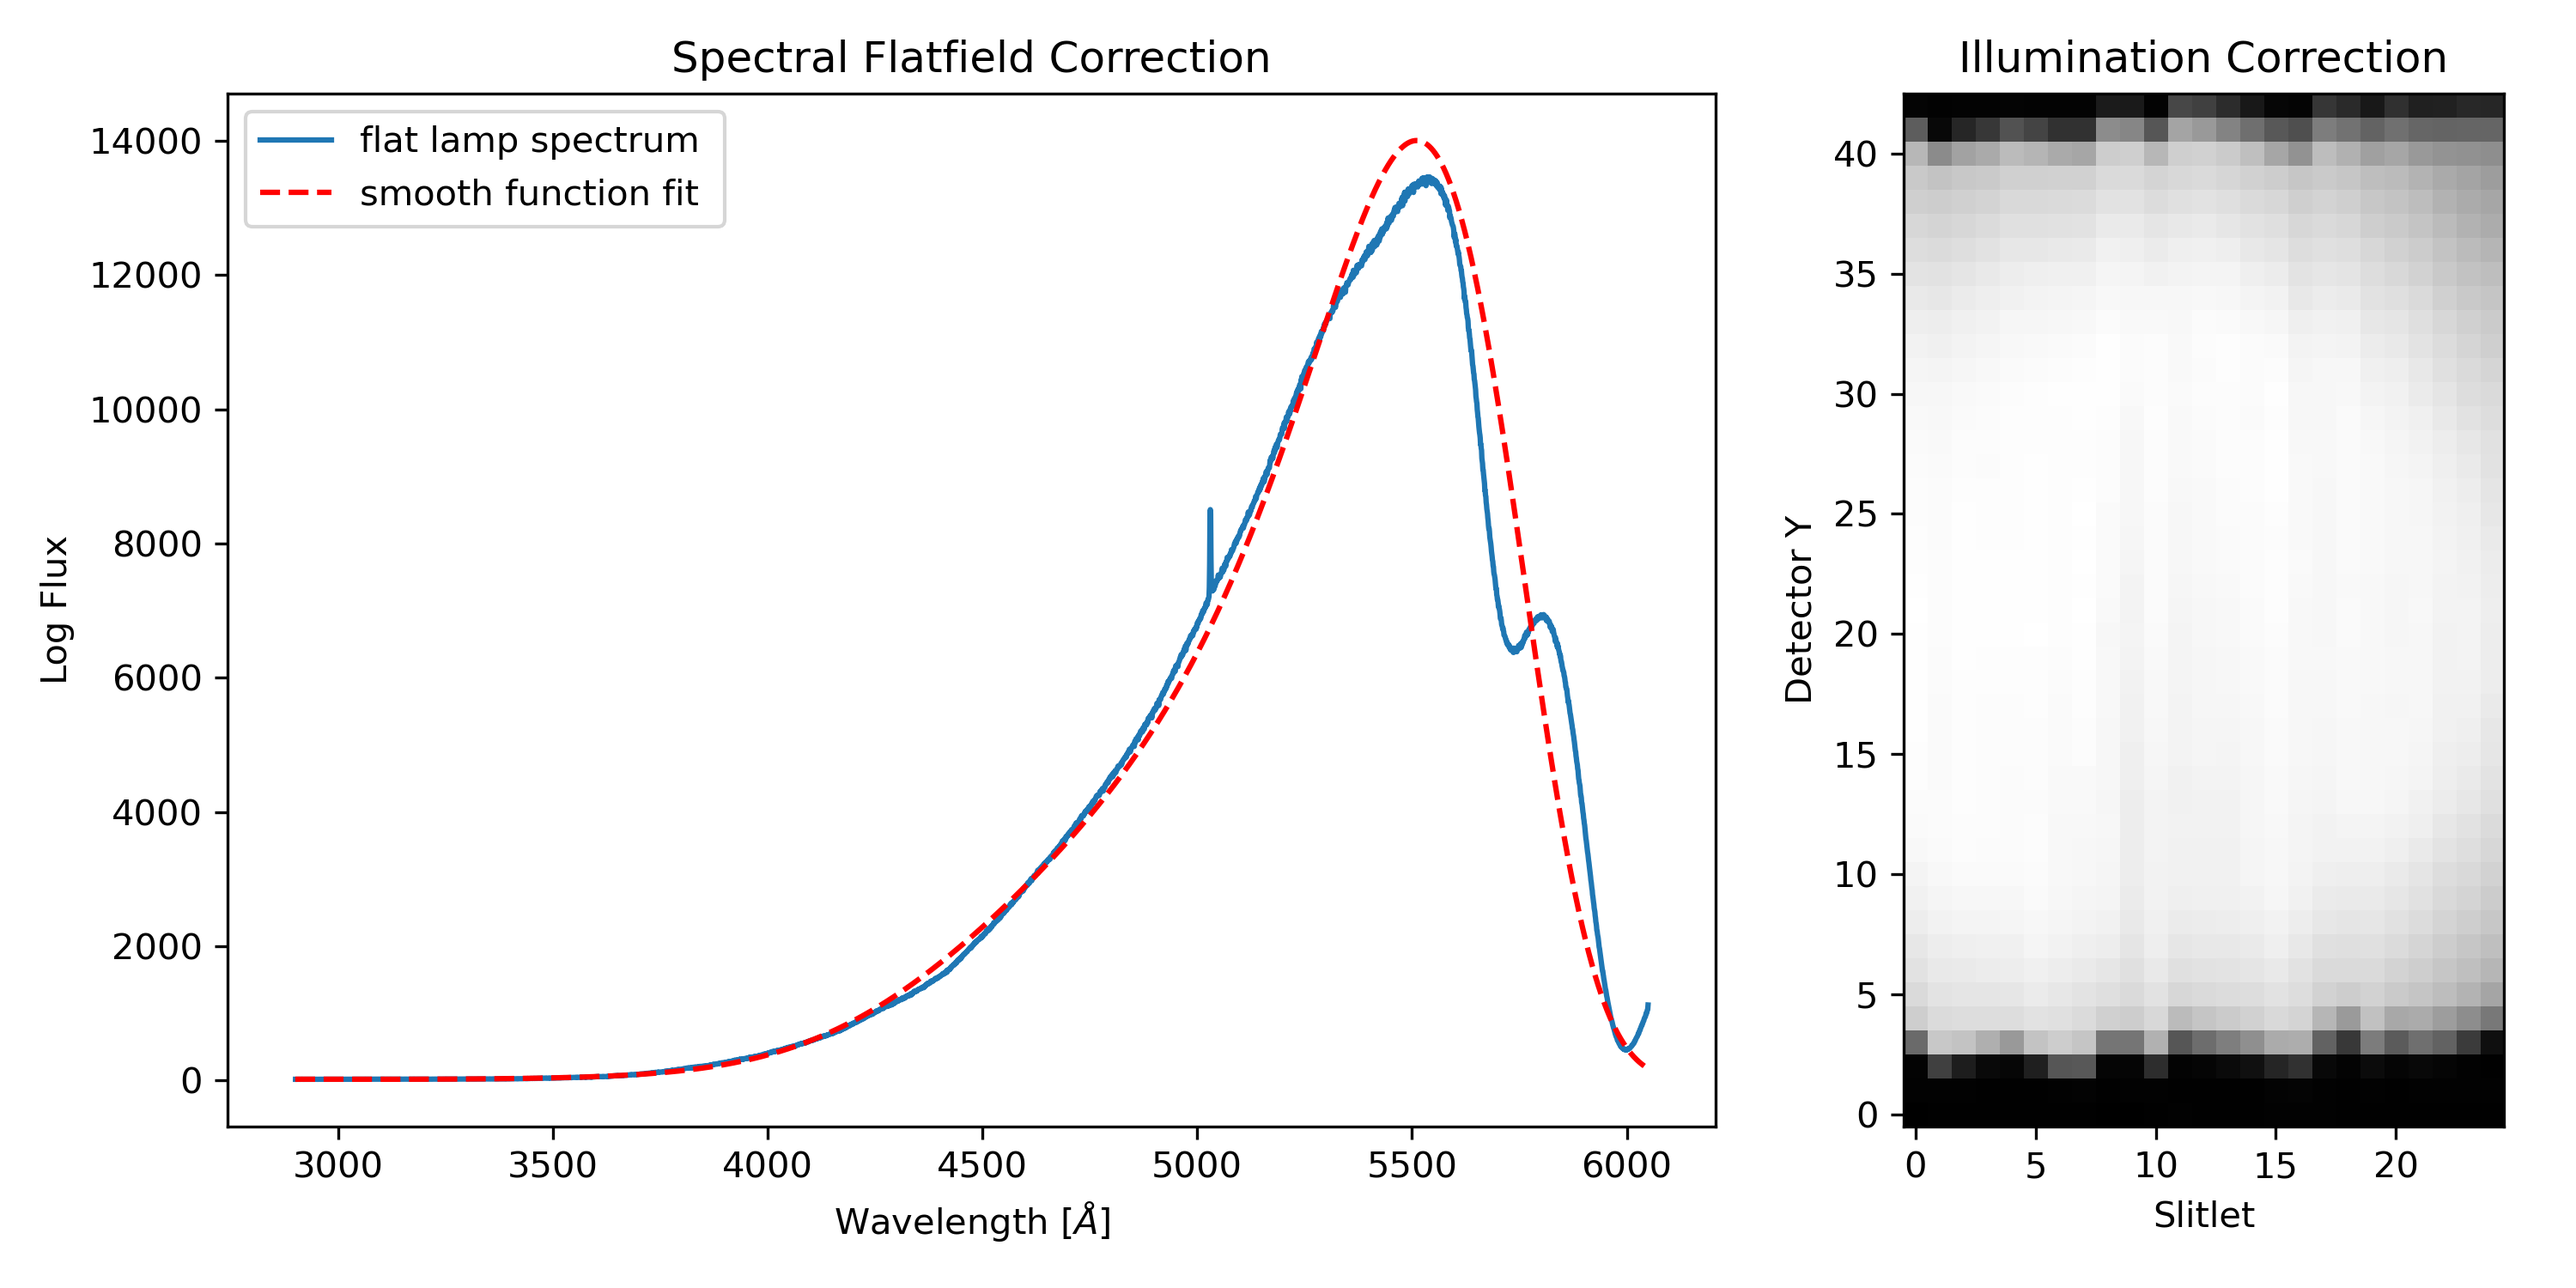
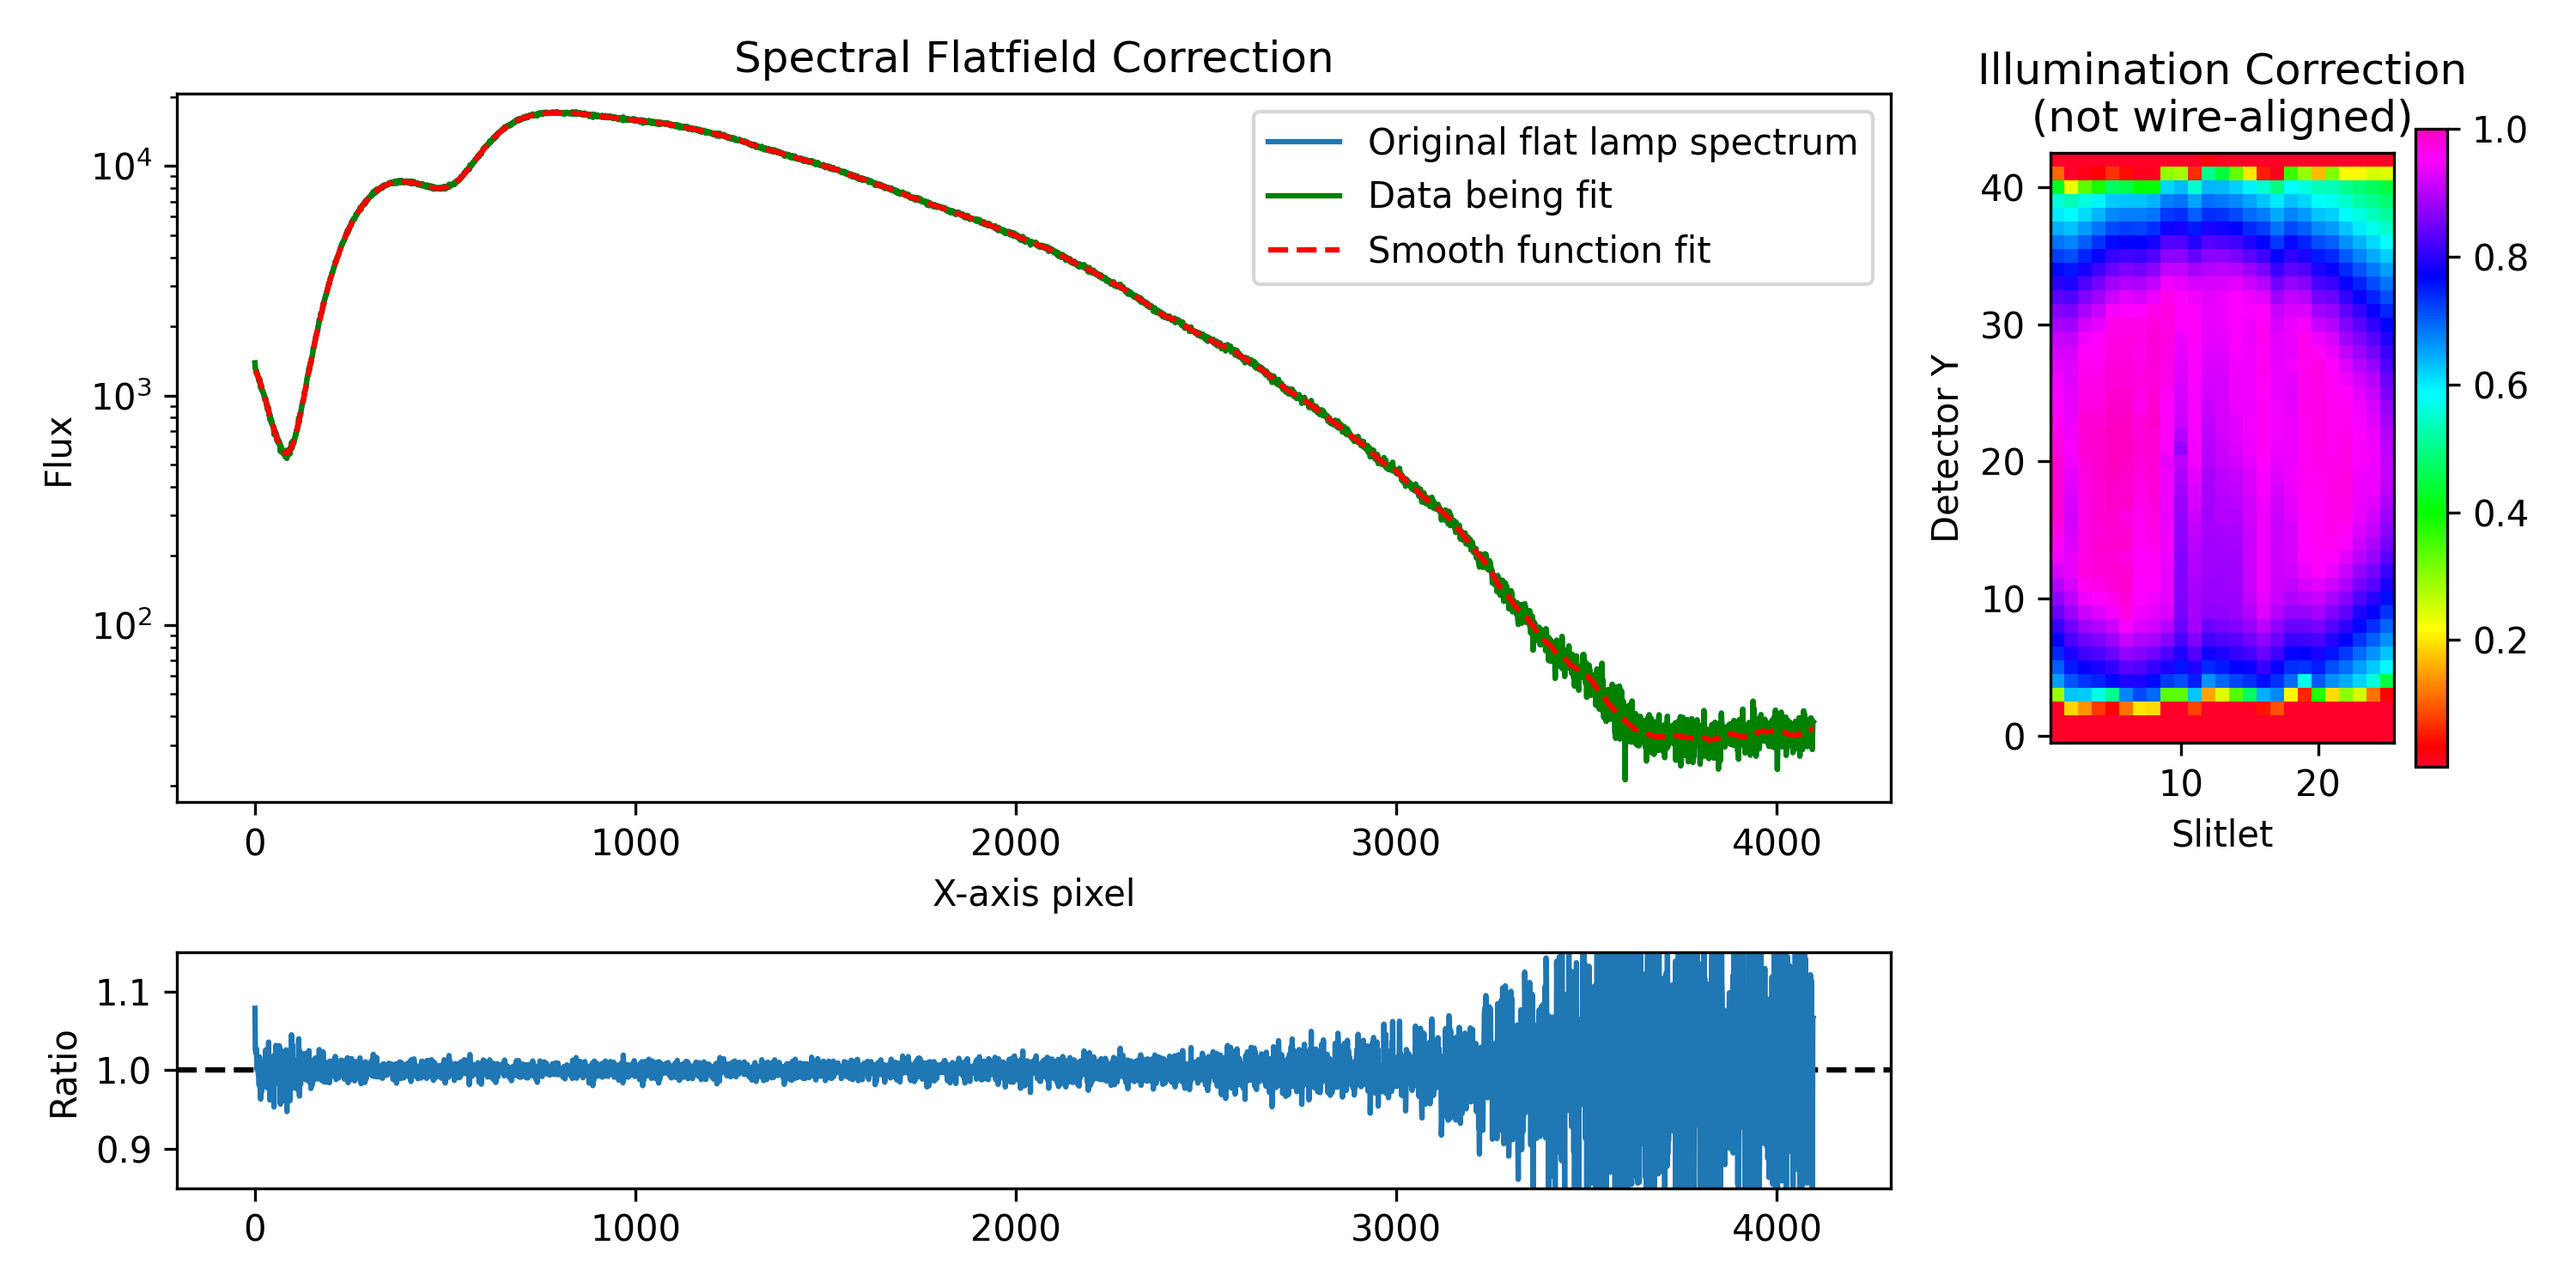
doc updates

diff --git a/docs/source/index.rst b/docs/source/index.rst
@@ -9,7 +9,7 @@ Welcome to the PyWiFeS User Manual!
 
 PyWiFeS is an automated Python data reduction pipeline for the Wide Field Spectrograph (WiFeS).
 
-An overview of the WiFeS instrument itself can be found on its `RSAA webpage <https://rsaa.anu.edu.au/observatories/telescopes/wifes>`_.
+An overview of the WiFeS instrument itself can be found on its `RSAA webpage <https://rsaa.anu.edu.au/observatories/instruments/wide-field-spectrograph-wifes>`_.
 
 PyWiFeS is designed to help astronomers and researchers to automatically reduce and analyze data from the WiFeS spectrograph. This pipeline automates all of the routine tasks involved in data reduction. It is written in Python and is open-source, allowing users to modify and extend the code to suit their needs.
 

diff --git a/docs/source/directories.rst b/docs/source/directories.rst
@@ -8,7 +8,8 @@ The pipeline generates a directory structure to store the **reduced data**. The 
 The pipeline will generate the `data_products` directory within the working directory `/.../working_directory` containing the reduced data, a logger file to track the information from the reduction process, and the following structure: 
 
 - data_products
-    - `pywifes_logger.log` 
+    - `blue.log` 
+    - `red.log` 
     - `xxx-Blue-UTxxx.cube.fits`
     - `xxx-Red-UTxxx.cube.fits`
     - `xxx-Splice-UTxxx.cube.fits`

diff --git a/docs/source/installation.rst b/docs/source/installation.rst
@@ -7,11 +7,11 @@ PyWiFeS requires an installation environment with python >=3.10, scipy >=1.15.1,
 
 To install PyWiFeS, follow these steps:
 
-1. Clone the repository (automation branch):
+1. Clone the repository (main branch):
    
    .. code-block:: bash
    
-      git clone -b automation https://github.com/PyWiFeS/pipeline.git
+      git clone -b main https://github.com/PyWiFeS/pipeline.git
    
 2. Navigate to the project directory and install dependencies:
    

diff --git a/docs/source/features.rst b/docs/source/features.rst
@@ -10,7 +10,7 @@ PyWiFeS is an automated and upgraded version of the original PyWiFeS pipeline (s
 Upgrades from the Previous Version
 ----------------------------------
 
-Main upgrades from the previous PyWiFeS version *as of March 2025*:
+Main upgrades from the previous PyWiFeS version *as of May 2025*:
 
 - Updated to Python 3, with bug fixes and headers for the new telescope setup.
 - Pip installable.
